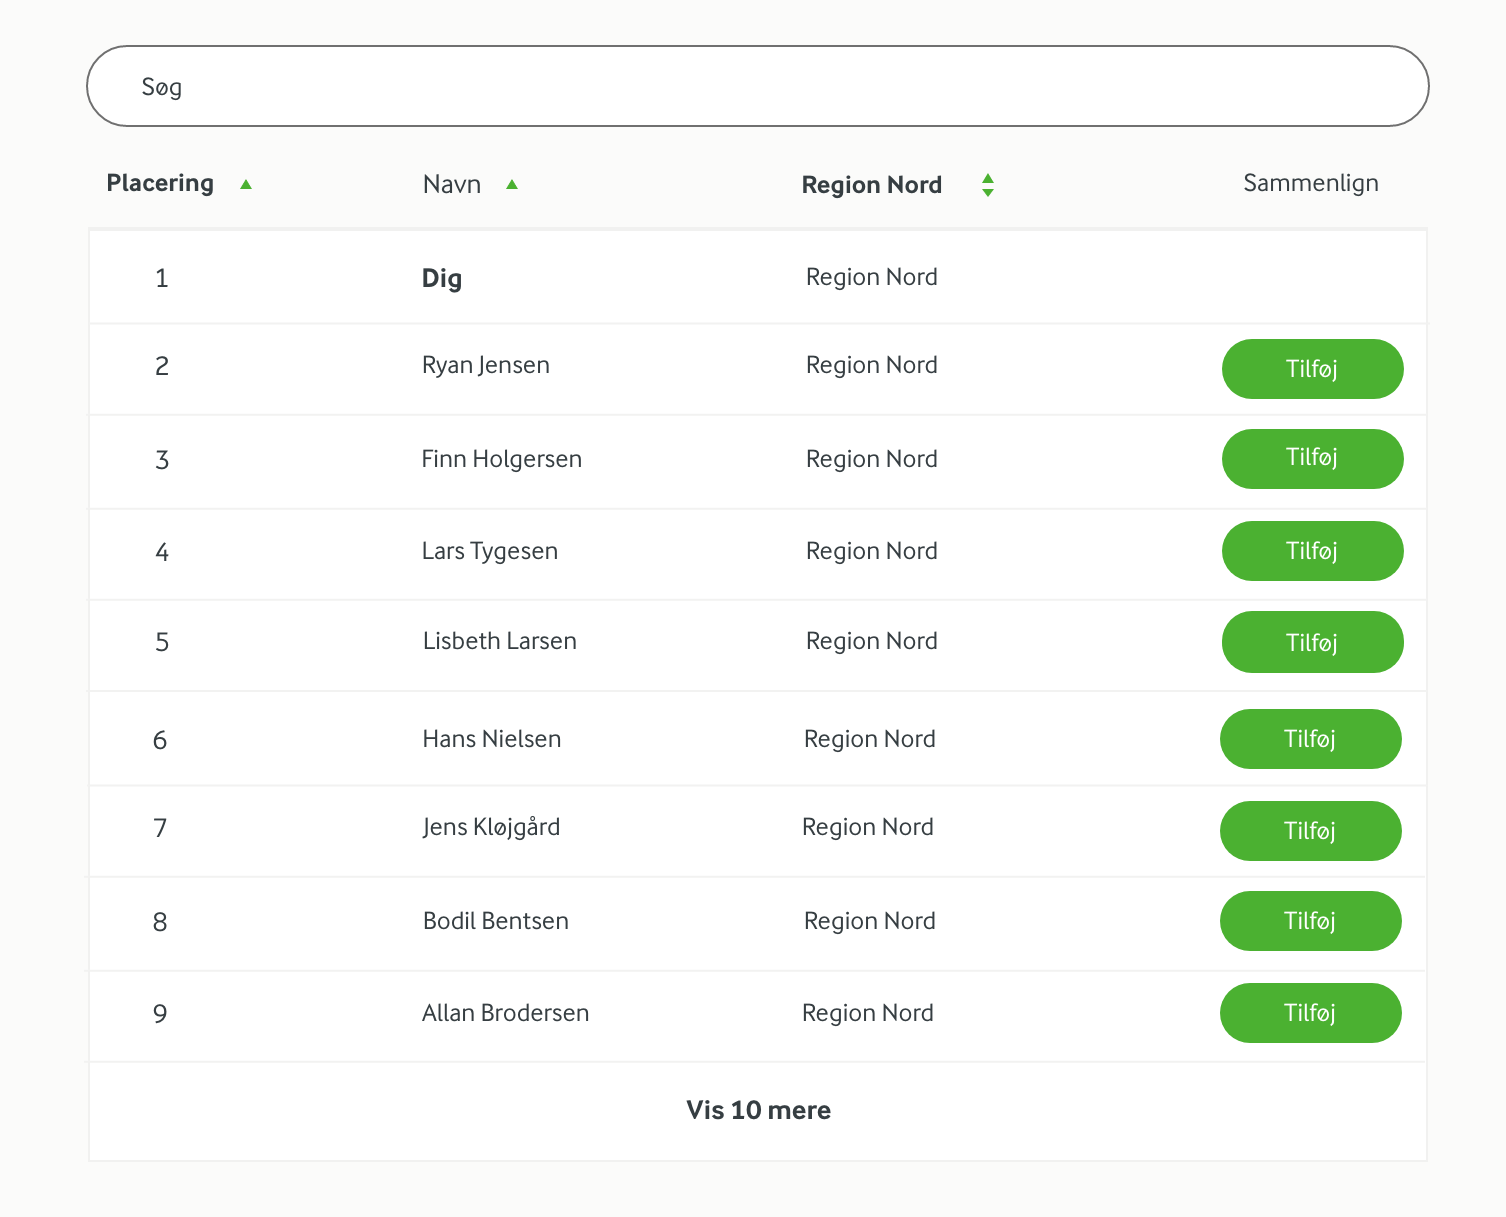
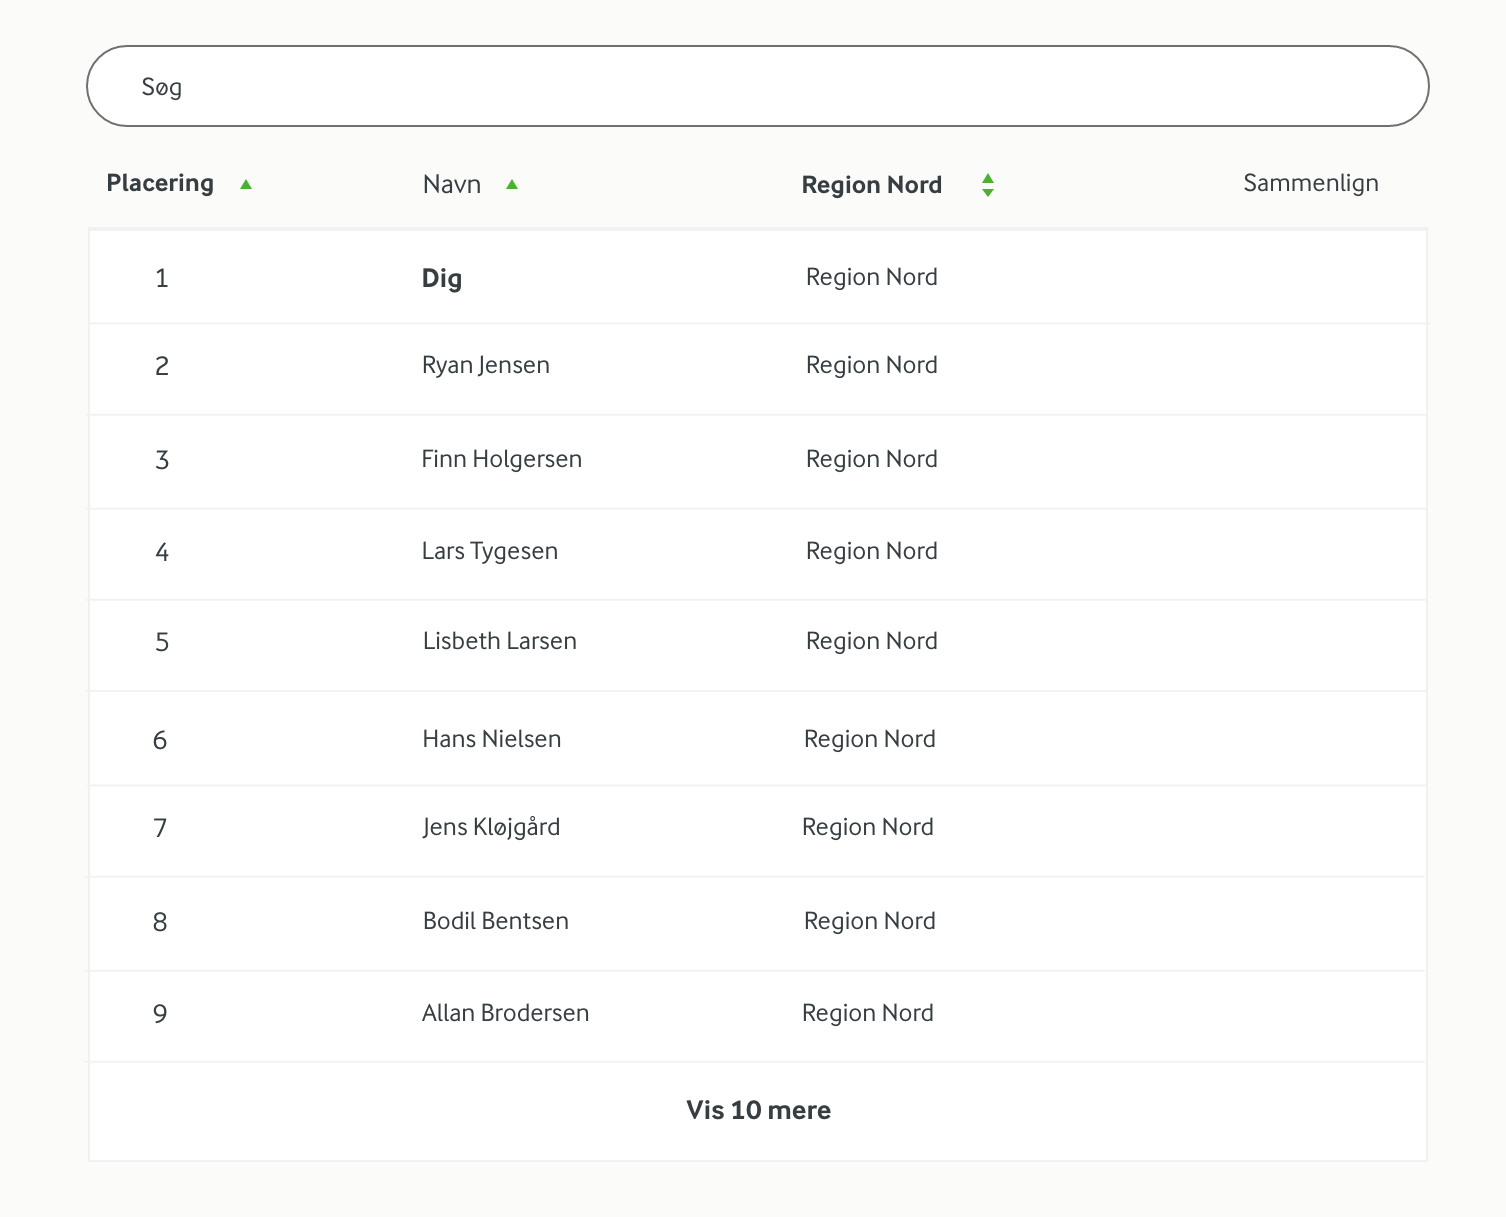
buttons

Changed region(s): [[0.8114, 0.281, 0.9363, 0.8743]]

diff --git a/js/farmer.js b/js/farmer.js
@@ -1,6 +1,18 @@
 "use strict";
 getFarmers();
 
+let myChart;
+let years = [];
+let karl = [];
+let lars = [];
+let hans = [];
+let bodil = [];
+let jens = [];
+let allan = [];
+let lisbeth = [];
+let ryan = [];
+let finn = [];
+
 function getFarmers() {
   let sheetId = "1jaaOv83bjlkEr6GdZgrTSeNMoahuIVeymwr7RGNlNvA";
   let sheetNumber = 1;
@@ -20,20 +32,7 @@ function getFarmers() {
 
 function appendChart(data) {
   console.log(data);
-
   // prepare data
-  let years = [];
-  let karl = [];
-  let lars = [];
-  let hans = [];
-  let bodil = [];
-  let jens = [];
-  let allan = [];
-  let lisbeth = [];
-  let ryan = [];
-  let finn = [];
-
-
   for (let year of data) {
     years.push(`${year['gsx$year']['$t']}`);
     karl.push(year['gsx$karl']['$t'].replace(",", "."));
@@ -49,7 +48,7 @@ function appendChart(data) {
 
   // generate chart
   let chart = document.getElementById('chart-farmer');
-  let myChart = new Chart(chart, {
+  myChart = new Chart(chart, {
     type: 'line',
     data: {
       datasets: [{
@@ -58,57 +57,58 @@ function appendChart(data) {
           borderColor: "#4bb131",
           fill: false
 
-        },
-        {
-          label: 'Lars',
-          data: lars,
-          borderColor: "#ffcc32",
-          fill: false
-        },
-        {
-          label: 'Hans',
-          data: hans,
-          borderColor: "#006c3a",
-          fill: false
-        },
-        {
-          label: 'Bodil',
-          data: bodil,
-          borderColor: "#0b43aa",
-          fill: false
-        },
-        {
-          label: 'Jens',
-          data: jens,
-          borderColor: "#3cc4eb",
-          fill: false
-        },
-        {
-          label: 'Allan',
-          data: allan,
-          borderColor: "#7d5d8a",
-          fill: false
-        },
-        {
-          label: 'Lisbeth',
-          data: lisbeth,
-          borderColor: "#f8353c",
-          fill: false
-        },
-        {
-          label: 'Ryan',
-          data: ryan,
-          borderColor: "#ff7e05",
-          fill: false
-        },
-        {
-          label: 'Finn',
-          data: finn,
-          borderColor: "#d7e100",
-          fill: false,
-
-
         }
+        // ,
+        // {
+        //   label: 'Lars',
+        //   data: lars,
+        //   borderColor: "#ffcc32",
+        //   fill: false
+        // },
+        // {
+        //   label: 'Hans',
+        //   data: hans,
+        //   borderColor: "#006c3a",
+        //   fill: false
+        // },
+        // {
+        //   label: 'Bodil',
+        //   data: bodil,
+        //   borderColor: "#0b43aa",
+        //   fill: false
+        // },
+        // {
+        //   label: 'Jens',
+        //   data: jens,
+        //   borderColor: "#3cc4eb",
+        //   fill: false
+        // },
+        // {
+        //   label: 'Allan',
+        //   data: allan,
+        //   borderColor: "#7d5d8a",
+        //   fill: false
+        // },
+        // {
+        //   label: 'Lisbeth',
+        //   data: lisbeth,
+        //   borderColor: "#f8353c",
+        //   fill: false
+        // },
+        // {
+        //   label: 'Ryan',
+        //   data: ryan,
+        //   borderColor: "#ff7e05",
+        //   fill: false
+        // },
+        // {
+        //   label: 'Finn',
+        //   data: finn,
+        //   borderColor: "#d7e100",
+        //   fill: false,
+        //
+        //
+        // }
 
       ],
       labels: years
@@ -123,17 +123,114 @@ function appendChart(data) {
       },
       responsive: true,
       legend: {
-        position: 'bottom',
-        labels: {
-          fontColor: "black",
-          boxWidth: 20,
-          padding: 20
-        }
+        display: false
       }
     }
 
   });
 }
+
+
+/*let button = document.getElementsByClassName("farmer-btn");
+let i;
+
+for (i = 0; i < button.length; i++) {
+  button[i].addEventListener("click", function() {
+    this.classList.toggle("active");
+    let content = this.nextElementSibling;
+    if (content.style.display) {
+      content.style.display = "none";
+    } else {
+      content.style.display = "block";
+    }
+  });
+}
+*/
+
+/*let x = dataset();
+if (x.style.display === "none") {
+  x.style.display = "block";
+} else {
+  x.style.display = "none";
+}*/
+
+
+function addDataset(name) {
+  let dataset = {};
+  let namebuttons = document.querySelectorAll(".farmer-btn");
+  for (let i = 0; i < namebuttons.lenght; i++) {
+    (function() {
+      let current = document.getElementsByClassName("clicked");
+      current[0].className = current[0].className.replace(" clicked", "");
+      this.className += " clicked";
+
+    });
+  }
+  if (name === "Lars") {
+    dataset = {
+      label: 'Lars',
+      data: lars,
+      borderColor: "#ffcc32",
+      fill: false
+    };
+  } else if (name === "Hans") {
+    dataset = {
+      label: 'Hans',
+      data: hans,
+      borderColor: "#006c3a",
+      fill: false
+    };
+  } else if (name === "Bodil") {
+    dataset = {
+      label: 'Bodil',
+      data: bodil,
+      borderColor: "#0b43aa",
+      fill: false
+    };
+  } else if (name === "Jens") {
+    dataset = {
+      label: 'Jens',
+      data: jens,
+      borderColor: "#3cc4eb",
+      fill: false
+    };
+  } else if (name === "Allan") {
+    dataset = {
+      label: 'Allan',
+      data: allan,
+      borderColor: "#7d5d8a",
+      fill: false
+    };
+  } else if (name === "Lisbeth") {
+    dataset = {
+      label: 'Lisbeth',
+      data: lisbeth,
+      borderColor: "#f8353c",
+      fill: false
+    };
+  } else if (name === "Ryan") {
+    dataset = {
+      label: 'Ryan',
+      data: ryan,
+      borderColor: "#ff7e05",
+      fill: false
+    };
+  } else if (name === "Finn") {
+    dataset = {
+      label: 'Finn',
+      data: finn,
+      borderColor: "#d7e100",
+      fill: false
+    };
+  }
+
+  myChart.data.datasets.push(dataset);
+  myChart.update();
+}
+
+
+
+
 
 /*
 let defaultLegendClickHandler = Chart.defaults.global.legend.onClick;

diff --git a/index.html b/index.html
@@ -22,8 +22,19 @@
   </div>
   <div class="chartWrapper" id="chart-farmer-wrapper">
     <canvas id="chart-farmer"></canvas>
-
-    <img class="compare-laptop" src="img/compare-laptop.png" alt="">
+    <div class="button-wrapper">
+      <div class="button-flex-container">
+        <button class="farmer-btn clicked" id="default-btn" type="button" name="button" onclick="addDataset('Karl')">Karl</button>
+        <button class="farmer-btn" type="button" name="button" onclick="addDataset('Ryan')">Tilføj</button>
+        <button class="farmer-btn" type="button" name="button" onclick="addDataset('Finn')">Tilføj</button>
+        <button class="farmer-btn" type="button" name="button" onclick="addDataset('Lars')">Tilføj</button>
+        <button class="farmer-btn" type="button" name="button" onclick="addDataset('Lisbeth')">Tilføj</button>
+        <button class="farmer-btn" type="button" name="button" onclick="addDataset('Hans')">Tilføj</button>
+        <button class="farmer-btn" type="button" name="button" onclick="addDataset('Jens')">Tilføj</button>
+        <button class="farmer-btn" type="button" name="button" onclick="addDataset('Bodil')">Tilføj</button>
+        <button class="farmer-btn" type="button" name="button" onclick="addDataset('Allan')">Tilføj</button>
+      </div>
+    </div>
   </div>
   <div class="chartWrapper" id="chart-region-wrapper">
     <canvas id="chart-region"></canvas>

diff --git a/css/main.css b/css/main.css
@@ -15,7 +15,7 @@ html {
 
 header {
   background-image: url(../img/laptop-header.png);
-  height: 12%;
+  height: 15%;
   width: 100%;
   position: fixed;
   background-repeat: no-repeat;
@@ -56,10 +56,46 @@ h1 {
 }
 
 .chartWrapper {
-  width: 75%;
+  width: 65%;
   position: absolute;
-  right: 5%;
+  right: 10%;
   margin-top: 15%;
+}
+
+.button-wrapper {
+  width: 100%;
+  background-image: url(../img/compare-laptop.png);
+  background-size: 85%;
+  background-position: center;
+  background-repeat: no-repeat;
+  height: 100vh;
+  display: flex;
+  justify-content: flex-end;
+  align-items: center;
+}
+
+.button-flex-container {
+  display: flex;
+  flex-direction: column;
+  margin-top: 35px;
+  margin-right: 12%;
+}
+
+.button-flex-container>button {
+  width: 85px;
+  height: 33px;
+  border-radius: 25px;
+  background-color: #4bb131;
+  border-color: #4bb131;
+  color: white;
+  margin: 5px;
+  cursor: pointer;
+}
+
+#default-btn {
+  background-color: white;
+  border-color: white;
+  cursor: auto;
 }
 
 .compare-laptop {
